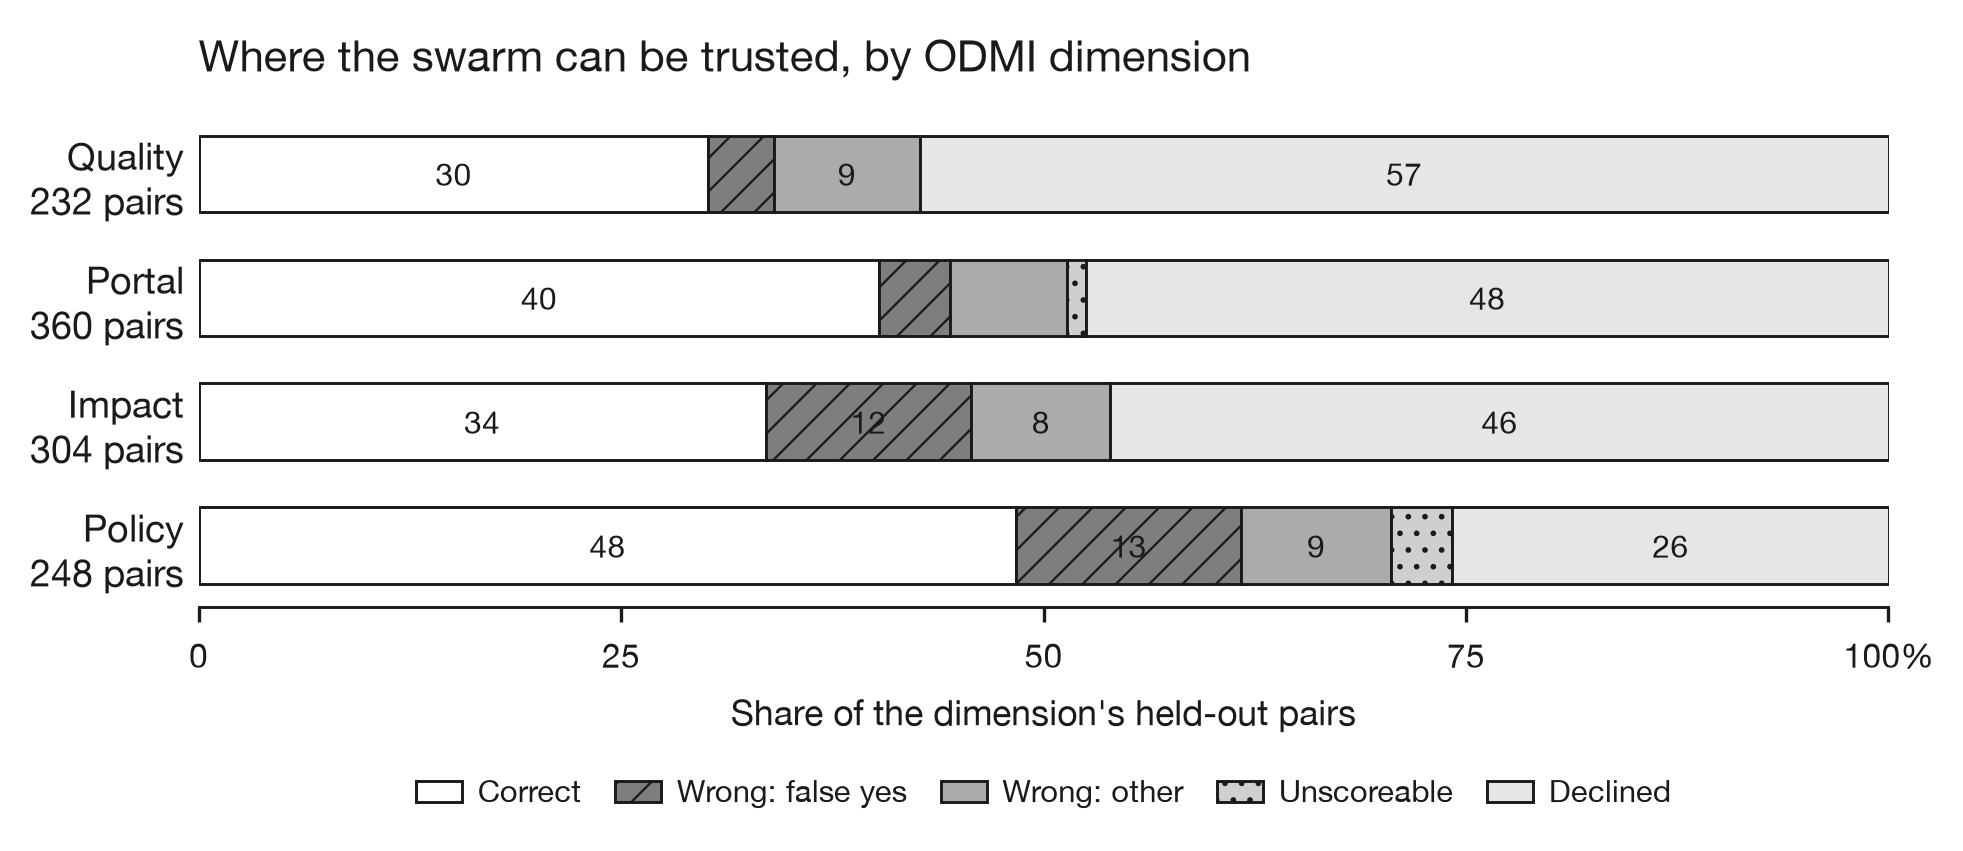
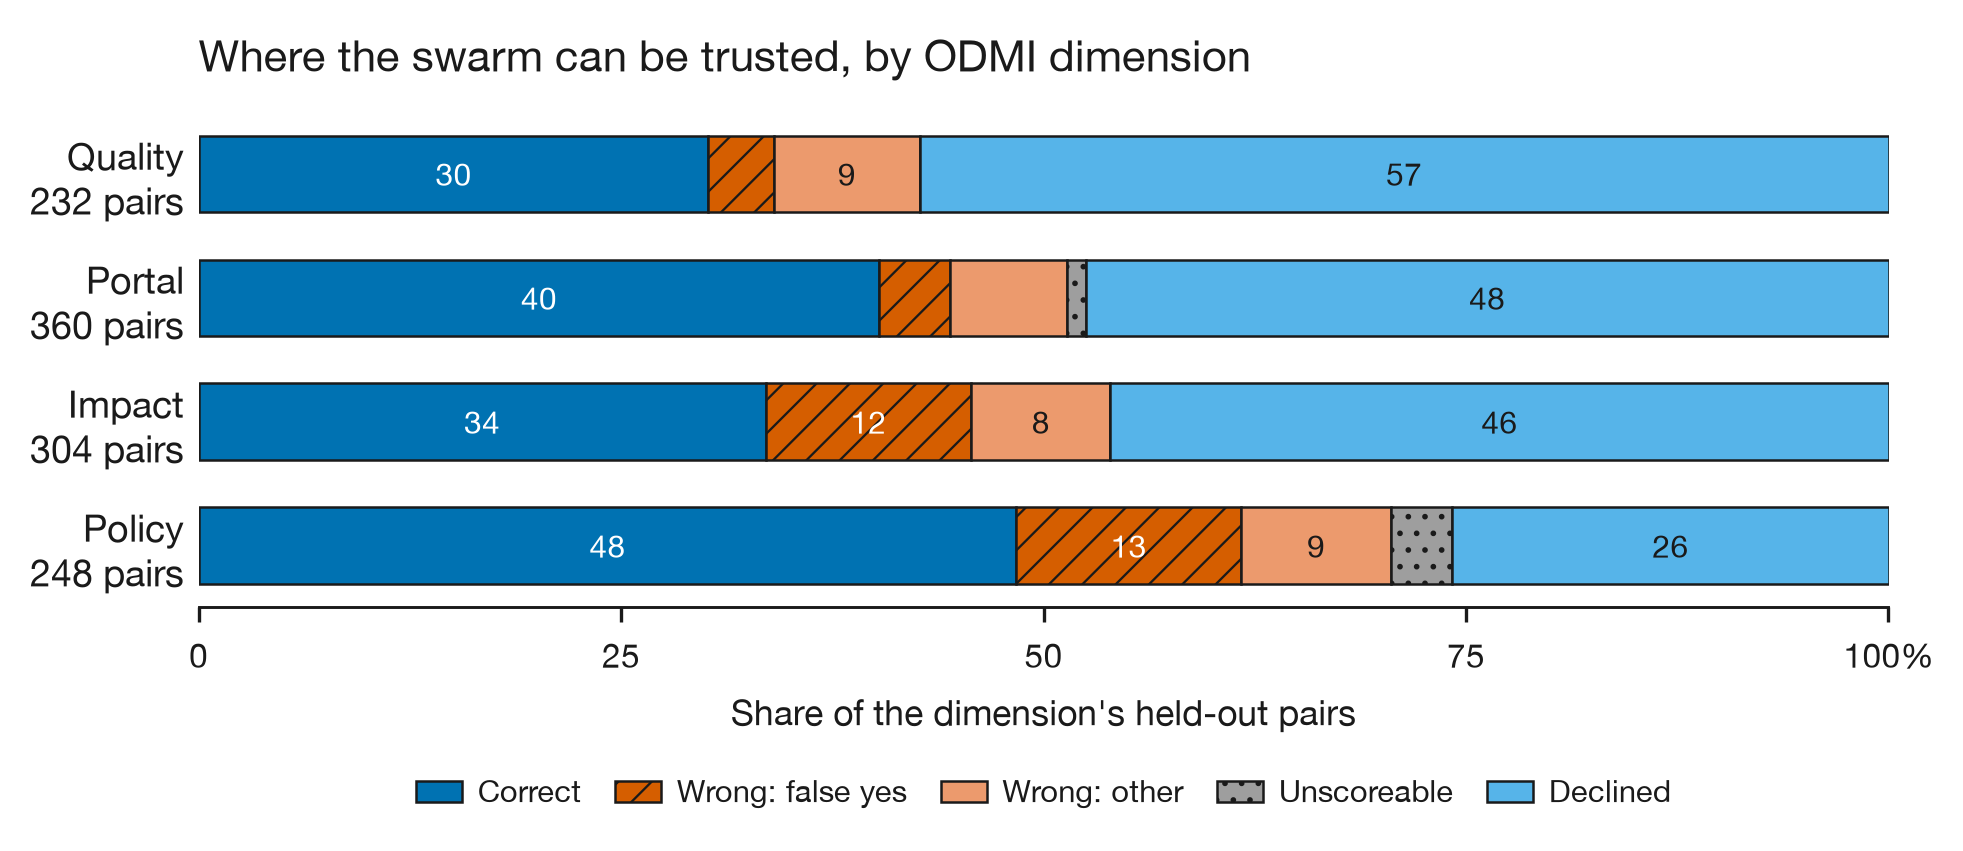
style(fig): house Okabe-Ito palette on the dimension figure
Blue for what the design intends, a correct answer or a deliberate decline,
vermillion for error. The width of the red block is then the figure's message
and reads without the legend. Hatch stays on the false-positive band so the
load-bearing distinction survives greyscale printing.

diff --git a/evaluation/figures/dimension_outcome_split.py b/evaluation/figures/dimension_outcome_split.py
@@ -14,8 +14,13 @@ is. Counts are on the axis labels so nothing is hidden.
 Ordered by false-positive share ascending, so the dimensions the system can be
 trusted with sit at the top.
 
-Greyscale-safe per the house convention: every band reads from fill lightness
-and hatch, never hue.
+House Okabe-Ito palette, split into two families that carry the argument: blue
+for the outcomes the design intends, either a correct answer or a deliberate
+decline, and the vermillion family for error. The width of the red block is
+therefore the figure's message, and it is readable at a glance without the
+legend. Okabe-Ito is colour-vision-safe by construction; the false-positive
+band also carries a hatch so the load-bearing distinction survives greyscale
+printing.
 
     uv run python evaluation/figures/dimension_outcome_split.py
 """
@@ -36,17 +41,23 @@ OUT = "evaluation/figures/fig_dimension_outcome_split"
 INK = "#1A1A1A"
 MUTED = "#6E6E6E"
 
-# Fill and hatch carry the category. The false-positive band is the only dense
-# hatch, so the eye lands on it first, which is the point of the figure.
-# Correct and Declined are the two largest bands and sit at opposite ends of
-# the stack, so they need separating by fill alone: a near-white declined band
-# against a white correct band reads as one continuous bar.
+# House Okabe-Ito: #0072B2 blue, #56B4E9 sky, #E69F00 orange, #009E73 green,
+# #D55E00 vermillion, #9E9E9E grey.
+BLUE = "#0072B2"
+SKY = "#56B4E9"
+VERMILLION = "#D55E00"
+VERMILLION_LIGHT = "#EC9A6D"   # a tint of the same hue, not a second colour
+GREY = "#9E9E9E"
+
+# Two families, and the split is the argument: blue for what the design
+# intends (a correct answer, or a deliberate decline), vermillion for error.
+# (label, fill, hatch, light_text)
 BANDS = [
-    ("Correct",            "#FFFFFF", ""),
-    ("Wrong: false yes",   "#7E7E7E", "///"),
-    ("Wrong: other",       "#ABABAB", ""),
-    ("Unscoreable",        "#CFCFCF", "..."),
-    ("Declined",           "#E6E6E6", ""),
+    ("Correct",           BLUE,             "",    True),
+    ("Wrong: false yes",  VERMILLION,       "///", True),
+    ("Wrong: other",      VERMILLION_LIGHT, "",    False),
+    ("Unscoreable",       GREY,             "...", False),
+    ("Declined",          SKY,              "",    False),
 ]
 
 
@@ -104,16 +115,17 @@ def draw(rows):
     ypos = range(len(rows))
     for yi, row in zip(ypos, rows):
         left = 0.0
-        for (label, fill, hatch), value in zip(BANDS, row["parts"]):
+        for (label, fill, hatch, light_text), value in zip(BANDS, row["parts"]):
             share = value / row["n"] * 100
             ax.barh(yi, share, left=left, height=0.62,
-                    facecolor=fill, edgecolor=INK, linewidth=0.7,
+                    facecolor=fill, edgecolor=INK, linewidth=0.6,
                     hatch=hatch, zorder=2)
             # Only label a band with room for the number, so nothing collides.
             if share >= 7:
                 ax.text(left + share / 2, yi, f"{share:.0f}",
                         ha="center", va="center", fontsize=7.6,
-                        color=INK, zorder=3)
+                        color="#FFFFFF" if light_text else INK,
+                        zorder=3)
             left += share
 
     ax.set_yticks(list(ypos))
@@ -133,8 +145,8 @@ def draw(rows):
 
     # Legend below the axis label. Above the plot it competes with the title
     # for the same band of space and the two collide at this figure width.
-    handles = [Patch(facecolor=f, edgecolor=INK, linewidth=0.7, hatch=h, label=l)
-               for l, f, h in BANDS]
+    handles = [Patch(facecolor=f, edgecolor=INK, linewidth=0.6, hatch=h, label=l)
+               for l, f, h, _ in BANDS]
     ax.legend(handles=handles, ncol=5, fontsize=7.4,
               loc="upper center", bbox_to_anchor=(0.5, -0.28),
               handlelength=1.5, columnspacing=1.1, handletextpad=0.5)
